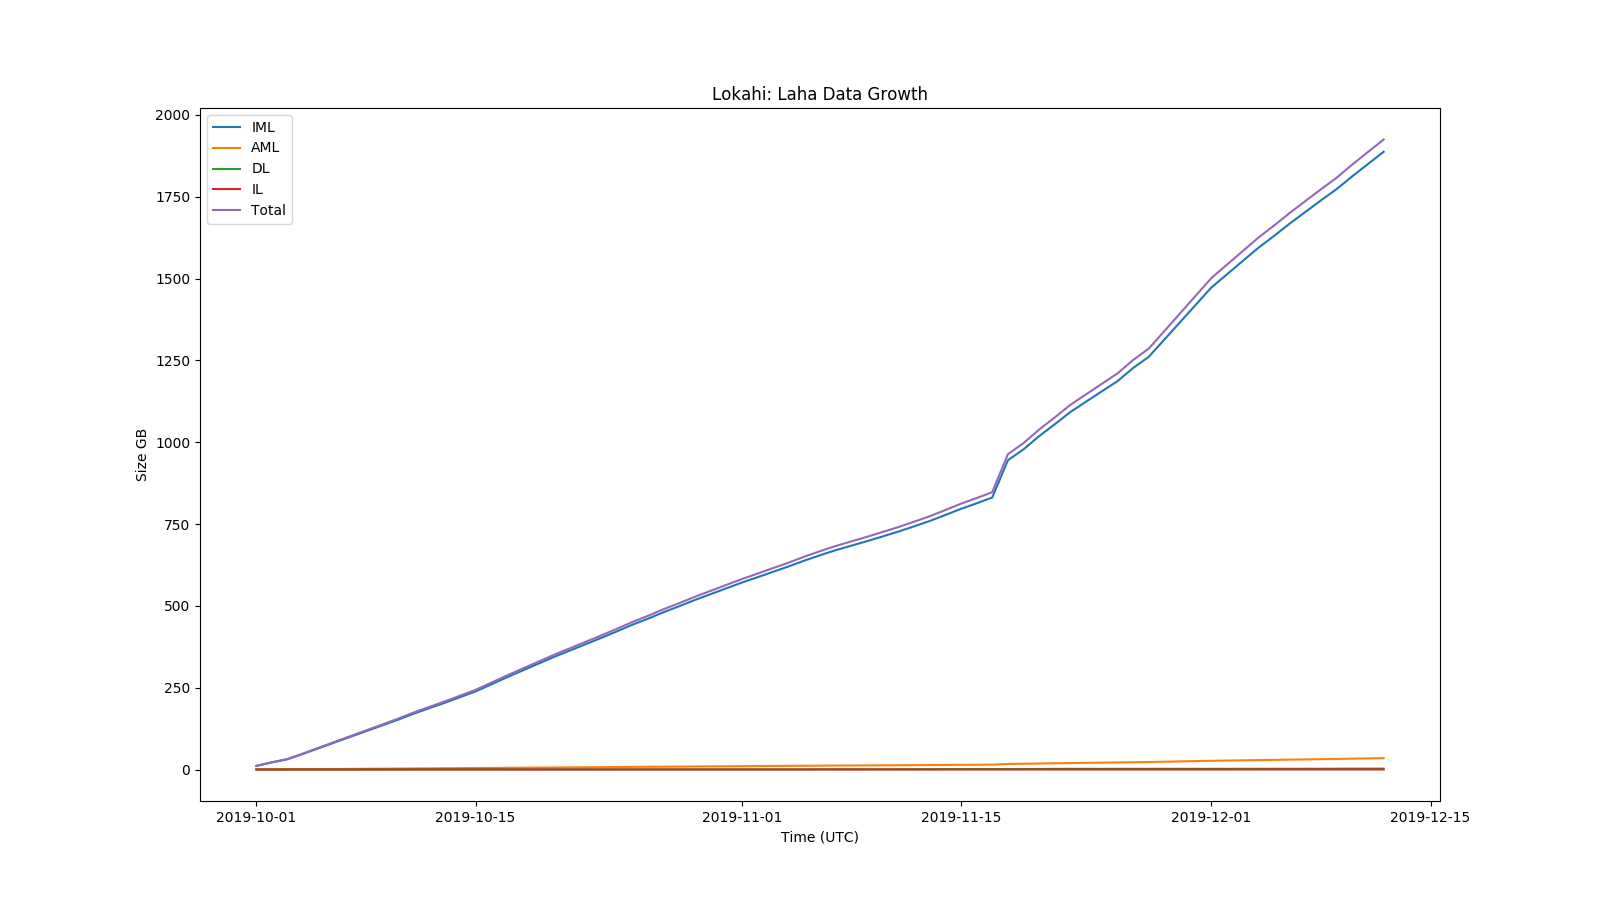
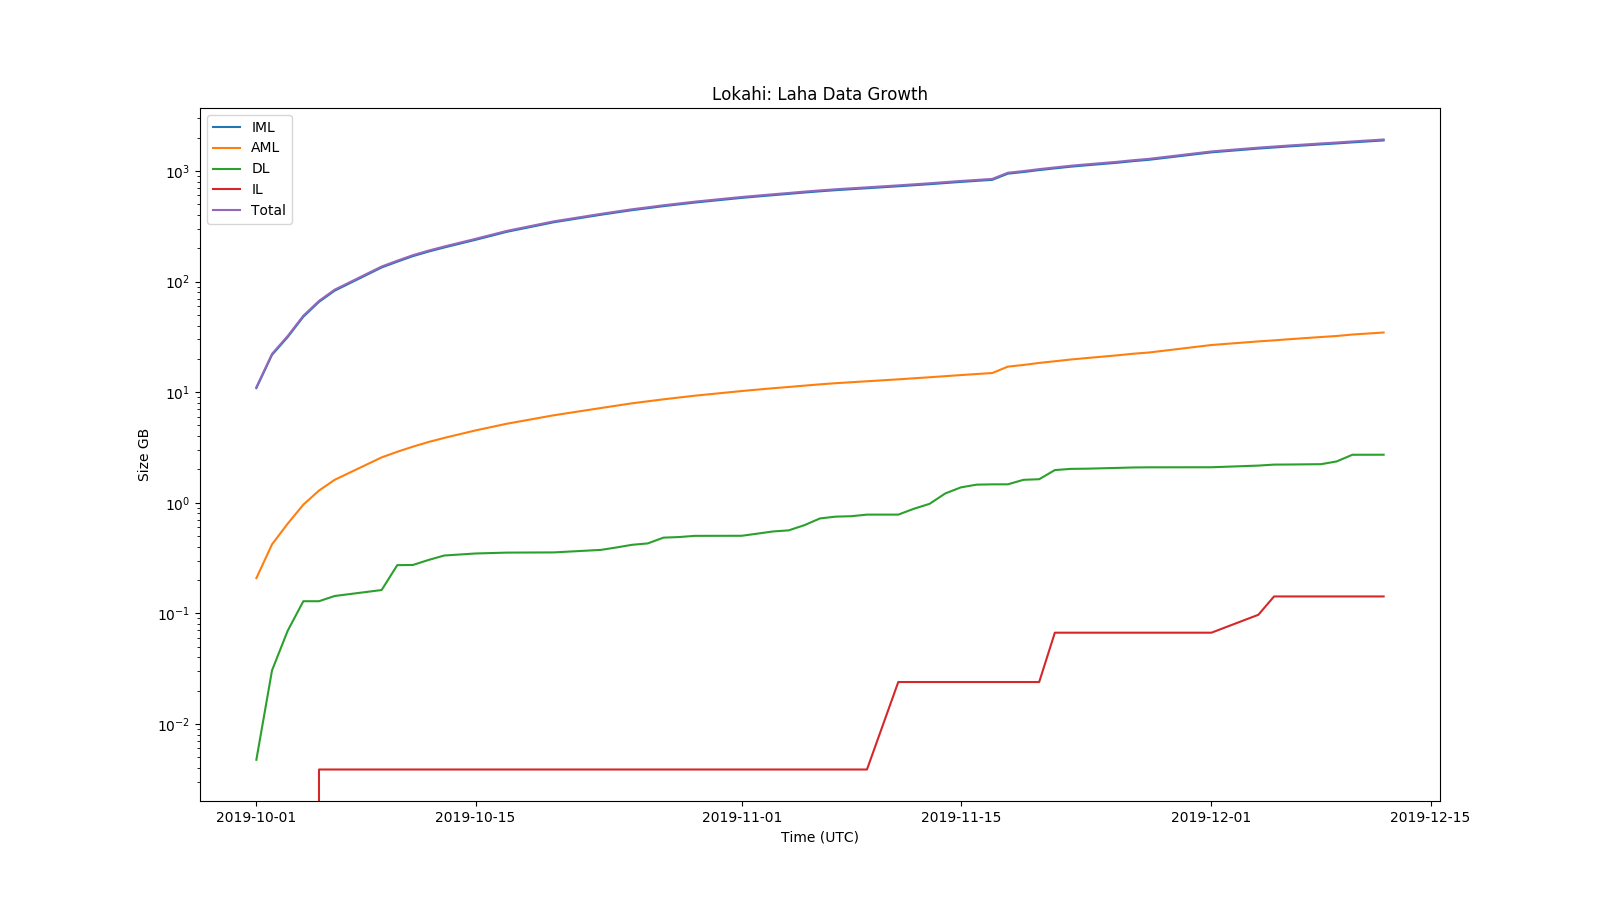
Fix plots.

diff --git a/plotting/lokahi/actual_data.py b/plotting/lokahi/actual_data.py
@@ -1090,7 +1090,7 @@ def plot_laha(dts: np.ndarray,
     ax.plot(dts, sum_incident_gb, label="IL")
     ax.plot(dts, total_gb, label="Total")
 
-    # ax.set_yscale("log")
+    ax.set_yscale("log")
     ax.set_title("Lokahi: Laha Data Growth")
     ax.set_ylabel("Size GB")
     ax.set_xlabel("Time (UTC)")
@@ -1173,6 +1173,8 @@ def plot_laha_vs_est(dts: np.ndarray,
 
     est_total = est_data_total_iml + est_data_total_aml + est_data_total_dl + est_data_total_il
 
+    max_y = max(est_total)
+
     # Plot
     fig, ax = plt.subplots(3, 1, figsize=(16, 9), sharex="all")
     fig: plt.Figure = fig
@@ -1183,7 +1185,7 @@ def plot_laha_vs_est(dts: np.ndarray,
     est_ax = ax[0]
     est_ax.plot(dts[1:], est_total, label="Estimated Laha Size")
 
-    # est_ax.set_ylim(ymax=max_y)
+    est_ax.set_ylim(ymax=max_y)
     est_ax.set_title("Estimated Laha")
     est_ax.set_ylabel("Size GB")
     est_ax.legend()
@@ -1191,13 +1193,132 @@ def plot_laha_vs_est(dts: np.ndarray,
     actual_ax = ax[1]
     actual_ax.plot(dts, total_gb, label="Actual Laha Size")
 
-    # actual_ax.set_ylim(ymax=max_y)
+    actual_ax.set_ylim(ymax=max_y)
     actual_ax.set_title("Actual Laha")
     actual_ax.set_ylabel("Size GB")
     actual_ax.legend()
 
     diff_ax = ax[2]
     diff_ax.plot(dts[1:], est_total - total_gb[1:], label="Difference")
+
+    diff_ax.set_ylim(ymax=max_y)
+    diff_ax.set_title("Difference (Estimated - Actual)")
+    diff_ax.set_xlabel("Time (UTC)")
+    diff_ax.set_ylabel("Size GB")
+    diff_ax.legend()
+
+    # fig.show()
+    fig.savefig("/home/opq/Documents/anthony/dissertation/src/figures/lokahi_actual_laha_vs_est.png")
+
+
+def plot_laha_vs_sim(dts: np.ndarray,
+                     daily_metrics: np.ndarray,
+                     report_metrics: np.ndarray,
+                     aligned_sim_80: np.ndarray,
+                     aligned_sim_800: np.ndarray,
+                     aligned_sim_8000: np.ndarray,):
+    # Data
+    # sum_dts: np.ndarray = dts[1:]
+    # IML
+    total_data_bytes_80hz_iml: np.ndarray = np.array(
+        list(map(lambda daily_metric: daily_metric.total_data_bytes_80hz, daily_metrics)))
+
+    total_data_bytes_800hz_iml: np.ndarray = np.array(
+        list(map(lambda daily_metric: daily_metric.total_data_bytes_800hz, daily_metrics)))
+
+    total_data_bytes_8000hz_iml: np.ndarray = np.array(
+        list(map(lambda daily_metric: daily_metric.total_data_bytes_8000hz, daily_metrics)))
+
+    total_data_bytes_iml: np.ndarray = total_data_bytes_80hz_iml + total_data_bytes_800hz_iml + total_data_bytes_8000hz_iml
+    total_data_gb_iml = total_data_bytes_iml / 1_000_000_000.0
+
+    sum_total_data_gb_iml = total_data_gb_iml
+    print(sum_total_data_gb_iml[-1])
+
+    # AML
+    total_data_bytes_80hz_aml: np.ndarray = np.array(
+        list(map(lambda daily_metric: daily_metric.aml_size_bytes_80hz(), daily_metrics)))
+
+    total_data_bytes_800hz_aml: np.ndarray = np.array(
+        list(map(lambda daily_metric: daily_metric.aml_size_bytes_800hz(), daily_metrics)))
+
+    total_data_bytes_8000hz_aml: np.ndarray = np.array(
+        list(map(lambda daily_metric: daily_metric.aml_size_bytes_8000hz(), daily_metrics)))
+
+    total_data_bytes_aml: np.ndarray = total_data_bytes_80hz_aml + total_data_bytes_800hz_aml + total_data_bytes_8000hz_aml
+    total_data_gb_aml = total_data_bytes_aml / 1_000_000_000.0
+
+    sum_total_data_gb_aml = total_data_gb_aml
+
+    # DL
+    event_bytes: np.ndarray = np.array(list(map(lambda report_metric: report_metric.event_bytes, report_metrics)))
+    sum_event_bytes: np.ndarray = event_bytes
+    sum_event_gb: np.ndarray = sum_event_bytes / 1_000_000_000.0
+
+    # IL
+    incident_bytes: np.ndarray = np.array(list(map(lambda report_metric: report_metric.incident_bytes, report_metrics)))
+    sum_incident_bytes: np.ndarray = incident_bytes
+    sum_incident_gb: np.ndarray = sum_incident_bytes / 1_000_000_000.0
+
+    # Total
+    total_gb = sum_total_data_gb_iml + sum_total_data_gb_aml + sum_event_gb + sum_incident_gb
+
+    # Sim Data
+    # Sim IML
+    sim_80_bytes_iml = np.array(list(map(lambda data: data.total_samples * 4, aligned_sim_80))) * 38
+    sim_800_bytes_iml = np.array(list(map(lambda data: data.total_samples * 4, aligned_sim_800))) * 99
+    sim_8000_bytes_iml = np.array(list(map(lambda data: data.total_samples * 4, aligned_sim_8000))) * 5
+    sim_total_bytes_iml = sim_80_bytes_iml + sim_800_bytes_iml + sim_8000_bytes_iml
+    sim_total_gb_iml = sim_total_bytes_iml / 1_000_000_000.0
+
+    # Sim AML
+    sim_80_bytes_aml = np.array(list(map(lambda data: data.total_trends_b, aligned_sim_80))) * 38
+    sim_800_bytes_aml = np.array(list(map(lambda data: data.total_trends_b, aligned_sim_800))) * 99
+    sim_8000_bytes_aml = np.array(list(map(lambda data: data.total_trends_b, aligned_sim_8000))) * 5
+    sim_total_bytes_aml = sim_80_bytes_aml + sim_800_bytes_aml + sim_8000_bytes_aml
+    sim_total_gb_aml = sim_total_bytes_aml / 1_000_000_000.0
+
+    # Sim DL
+    sim_80_bytes_dl = np.array(list(map(lambda data: data.total_dl_b, aligned_sim_80)))
+    sim_total_bytes_dl = sim_80_bytes_dl
+    sim_total_gb_dl = sim_total_bytes_dl / 1_000_000_000.0
+
+    # Sim IL
+    sim_80_bytes_il = np.array(list(map(lambda data: data.total_il_b, aligned_sim_80)))
+    sim_total_bytes_il = sim_80_bytes_il
+    sim_total_gb_il = sim_total_bytes_il / 1_000_000_000.0
+
+    sim_total_gb = sim_total_gb_iml + sim_total_gb_aml + sim_total_gb_dl + sim_total_gb_il
+
+    max_y = max(total_gb)
+
+    # Plot
+    fig, ax = plt.subplots(3, 1, figsize=(16, 9), sharex="all")
+    fig: plt.Figure = fig
+    ax: List[plt.Axes] = ax
+
+    fig.suptitle("Lokahi: Simulated Laha vs Actual Laha")
+
+    est_ax = ax[0]
+    est_ax.plot(dts, sim_total_gb, label="Simulated Laha Size")
+
+    est_ax.set_yscale("log")
+    est_ax.set_ylim(ymax=max_y)
+    est_ax.set_title("Estimated Laha")
+    est_ax.set_ylabel("Size GB")
+    est_ax.legend()
+
+    actual_ax = ax[1]
+    actual_ax.plot(dts, total_gb, label="Actual Laha Size")
+
+    actual_ax.set_yscale("log")
+    actual_ax.set_ylim(ymax=max_y)
+    actual_ax.set_title("Actual Laha")
+    actual_ax.set_ylabel("Size GB")
+    actual_ax.legend()
+
+    diff_ax = ax[2]
+    diff_ax.plot(dts, sim_total_gb - total_gb, label="Difference")
 
     # diff_ax.set_ylim(ymax=max_y)
     diff_ax.set_title("Difference (Estimated - Actual)")
@@ -1206,7 +1327,7 @@ def plot_laha_vs_est(dts: np.ndarray,
     diff_ax.legend()
 
     # fig.show()
-    fig.savefig("/home/opq/Documents/anthony/dissertation/src/figures/lokahi_actual_laha_vs_est.png")
+    fig.savefig("/home/opq/Documents/anthony/dissertation/src/figures/lokahi_actual_laha_vs_sim.png")
 
 
 def reduce_fn(accumulator: List, value) -> List:
@@ -1382,10 +1503,17 @@ def main():
     plot_laha(aligned_laha_dts,
               aligned_laha_daily_metrics,
               aligned_laha_report_metrics)
+    #
+    # plot_laha_vs_est(aligned_all_dts,
+    #                  aligned_all_daily_metrics,
+    #                  aligned_all_report_metrics)
 
-    plot_laha_vs_est(aligned_all_dts,
-                     aligned_all_daily_metrics,
-                     aligned_all_report_metrics)
+    # plot_laha_vs_sim(aligned_all_dts,
+    #                  aligned_all_daily_metrics,
+    #                  aligned_all_report_metrics,
+    #                  aligned_all_sim_80_metrics,
+    #                  aligned_all_sim_800_metrics,
+    #                  aligned_all_sim_8000_metrics)
 
 
 if __name__ == "__main__":

diff --git a/src/results.tex b/src/results.tex
@@ -1710,7 +1710,23 @@ Figure~\ref{fig:lokahi_actual_laha} shows the total size of all levels collected
 
 The total size of the Lokahi deployment reaches close to 3 TB over two and a half months. Next I will compare the total size of Laha to the estimated and simulated results from the Evaluation chapter.
 
+Figure~\ref{fig:lokahi_actual_laha_vs_est} shows actual Laha growth compared to estimated Laha growth.
 
+\begin{figure}[H]
+    \centering
+    \includegraphics[width=\linewidth]{figures/lokahi_actual_laha_vs_est.png}
+    \caption{Lokahi Laha Growth vs Estimated Laha Growth}
+    \label{fig:lokahi_actual_laha_vs_est}
+\end{figure}
+
+Figure~\ref{fig:lokahi_actual_laha_vs_sim} shows actual Laha growth versus simulated Laha growth.
+
+\begin{figure}[H]
+    \centering
+    \includegraphics[width=\linewidth]{figures/lokahi_actual_laha_vs_sim.png}
+    \caption{Lokahi Laha Growth vs Simulated Laha Growth}
+    \label{fig:lokahi_actual_laha_vs_sim}
+\end{figure}
 
 \section{Results of Tertiary Goals}\label{sec:results-of-tertiary-goals}
 
